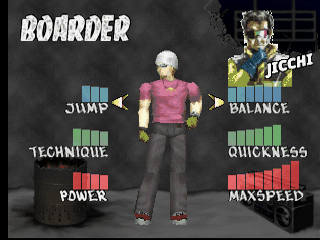
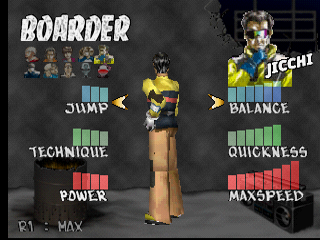
Site: up-to-date Jicchi, Nick and Kelly screens (their own models)
Claude-Session: https://claude.ai/code/session_01UePpYXqZcg7WTyyjE4rcox

diff --git a/index.html b/index.html
@@ -240,7 +240,7 @@ select{background:var(--panel2);color:var(--txt);border:1px solid var(--line2);b
     <h2 class="show-h" data-i18n-html="showTitle"></h2>
     <p class="show-lead" data-i18n="showLead"></p>
     <article class="fr" id="f-boost"><figure class="scr"><span class="badge" data-i18n="badgeNew"></span><img src="screens/feat_boost.png" alt="" width="320" height="240" loading="lazy"></figure><div class="cp"><p class="fk"><span>01</span><b data-i18n="fk_boost"></b></p><h3 data-i18n="ft_boost"></h3><p class="fp" data-i18n="fp_boost"></p><p class="fd" data-i18n="fd_boost"></p><p class="keys"><kbd>R2</kbd><kbd>L1 / R1 / ▢ / ○ / △</kbd></p></div></article>
-    <article class="fr rev" id="f-crew"><figure class="scr"><span class="badge" data-i18n="badgeNew"></span><img src="screens/mod_crew.png" alt="" width="320" height="240" loading="lazy"></figure><div class="cp"><p class="fk"><span>02</span><b data-i18n="fk_crew"></b></p><h3 data-i18n="ft_crew"></h3><p class="fp" data-i18n="fp_crew"></p><p class="fd" data-i18n="fd_crew"></p></div></article>
+    <article class="fr rev" id="f-crew"><figure class="scr"><span class="badge" data-i18n="badgeNew"></span><img src="screens/feat_crew.png" alt="" width="640" height="480" loading="lazy"></figure><div class="cp"><p class="fk"><span>02</span><b data-i18n="fk_crew"></b></p><h3 data-i18n="ft_crew"></h3><p class="fp" data-i18n="fp_crew"></p><p class="fd" data-i18n="fd_crew"></p></div></article>
     <article class="fr" id="f-riders"><figure class="scr"><img src="screens/feat_snowman.png" alt="" width="320" height="240" loading="lazy"></figure><div class="cp"><p class="fk"><span>03</span><b data-i18n="fk_riders"></b></p><h3 data-i18n="ft_riders"></h3><p class="fp" data-i18n="fp_riders"></p><p class="fd" data-i18n="fd_riders"></p></div></article>
     <article class="fr rev" id="f-radar"><figure class="scr"><img src="screens/mod_radar.png" alt="" width="320" height="240" loading="lazy"></figure><div class="cp"><p class="fk"><span>04</span><b data-i18n="fk_radar"></b></p><h3 data-i18n="ft_radar"></h3><p class="fp" data-i18n="fp_radar"></p><p class="fd" data-i18n="fd_radar"></p></div></article>
     <article class="fr" id="f-falls"><figure class="scr"><img src="screens/feat_falls.png" alt="" width="320" height="240" loading="lazy"></figure><div class="cp"><p class="fk"><span>05</span><b data-i18n="fk_falls"></b></p><h3 data-i18n="ft_falls"></h3><p class="fp" data-i18n="fp_falls"></p><p class="fd" data-i18n="fd_falls"></p></div></article>
